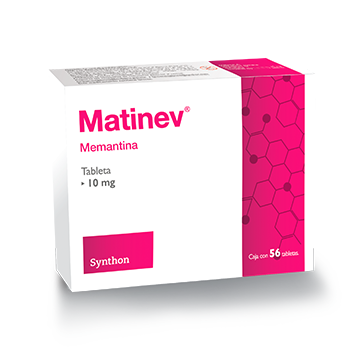
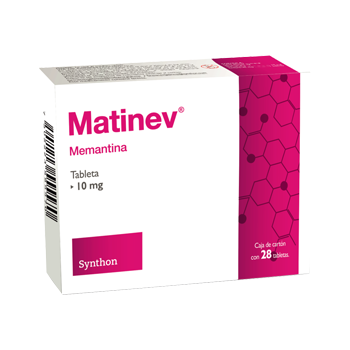
08

Changed region(s): [[0.1143, 0.1429, 0.9429, 0.9143]]

diff --git a/index.html b/index.html
@@ -27,7 +27,7 @@
             <nav class="nav">
                <ul>
                   <li><a href="./index.html" class="active"><i class="fas fa-home"></i>&nbsp;Inicio</a></li>
-                  <li><a href="./acceso/registro.html"><i class="fa-solid fa-right-to-bracket"></i>&nbsp;Ingresa | Registrate</a></li>
+                  <li><a href="./acceso/registro.html"><i class="fa-solid fa-right-to-bracket"></i>&nbsp;Ingresa</a></li>
                   <li><a href="./perfil-cliente/mi-espacio.html"><i class="fas fa-user"></i>&nbsp;Perfil</a></li>
                </ul>
             </nav>
@@ -58,70 +58,137 @@
 
 <div class="grid__container">
 
-  <div class="card" data-id="Apthon">
+  <div class="tarjetas__productos" data-id="Apthon">
     <img src="./img/productos/apthon.png" alt="apthon">
     <h1>Apthon®</h1>
-    <p>ACIDO ZOLEDRONICO 4mg/5mL | CAJA CON 1</p>
-    <h2> <span>Promoción</span> 3+1 | Paga tres, llévate 4
-      Precio por caja:
-      $2,231.00</h2>
+    <p>Cinacalcet 30 mg | 30 TABS</p>
+    <h3>
+      Precio por caja: $3,654.00</h3>
   </div>
 
-  <div class="card" data-id="Matinev">
+  <div class="tarjetas__productos" data-id="Matinev">
     <img src="./img/productos/matinev.png" alt="matinev">
-    <h1>Apthon®</h1>
-    <p>ACIDO ZOLEDRONICO 4mg/5mL | CAJA CON 1</p>
-    <h2> <span>Promoción</span> 3+1 | Paga tres, llévate 4
-      Precio por caja:
-      $2,231.00</h2>
+    <h1>Matinev®</h1>
+    <p>MEMANTINA 10 mg | 28 Tabletas</p>
+    <h2> <span>Promoción</span> 2+1 | Paga dos, llévate 3 </h2>
+      <h3>Precio por caja: $717.00</h3>
+      
   </div>
 
-  <div class="card" data-id="Rifosar">
-    <img src="./img/productos/rifosar.png" alt="rifosar">
+  <div class="tarjetas__productos" data-id="Matinev">
+    <img src="./img/productos/matinev-56tabs.png" alt="matinev">
+    <h1>Matinev®</h1>
+    <p>MEMANTINA 10 mg | 56 Tabletas</p>
+    <h2> <span>Promoción</span> 2+1 | Paga dos, llévate 3 </h2>
+      <h3>Precio por caja: $987.00</h3>
+      
+  </div>
+
+  <div class="tarjetas__productos" data-id="Matinev">
+    <img src="./img/productos/matinev-20g.png" alt="matinev">
+    <h1>Matinev®</h1>
+    <p>MEMANTINA 20 mg | 28 Tabletas</p>
+    <h2> <span>Promoción</span> 2+1 | Paga dos, llévate 3 </h2>
+      <h3>Precio por caja: $881.00</h3>
+      
+  </div>
+
+  <div class="tarjetas__productos" data-id="Balbit">
+    <img src="./img/productos/balbit.png" alt="Balbit">
+    <h1>Balbit®</h1>
+    <p>ACIDO ZOLEDRONICO 4mg/5mL | CAJA CON 1</p>
+    <h2> <span>Promoción</span> 3+1 | Paga tres, llévate 4 </h2>
+      <h3> Precio por caja:$2,231.00 </h3>
+  </div>
+
+  <div class="tarjetas__productos" data-id="Rifosar 800">
+    <img src="./img/productos/rifosar-800mg.png" alt="rifosar">
     <h1>Rifosar®</h1>
-    <p>ACIDO ZOLEDRONICO 4mg/5mL | CAJA CON 1</p>
-    <h2> <span>Promoción</span> 3+1 | Paga tres, llévate 4
-      Precio por caja:
-      $2,231.00</h2>
+    <p>SEVELAMERO 800 mg | 180 TABS</p>
+    <h3> Precio por caja: $3,874.00</h3>
   </div>
 
-  <div class="card" data-id="Ripizolnev">
+  <div class="tarjetas__productos" data-id="Rifosar">
+    <img src="./img/productos/rifosar-pos.png" alt="Ripizolnev">
+    <h1>RIFOSAR-POS®</h1>
+    <p>SEVELAMERO 2.4 G | 60 SOBRES</p>
+    <h2> <span>Promoción</span> 4+1 | Paga 4, llévate 5 </h2>
+     <h3>$3,990.00</h3>
+  </div>
+
+  <div class="tarjetas__productos" data-id="Ripizolnev">
     <img src="./img/productos/ripizolnev.png" alt="Ripizolnev">
     <h1>Ripizolnev®</h1>
-    <p>ACIDO ZOLEDRONICO 4mg/5mL | CAJA CON 1</p>
-    <h2> <span>Promoción</span> 3+1 | Paga tres, llévate 4
-      Precio por caja:
-      $2,231.00</h2>
+    <p>ARIPIPRAZOL 10 mg | 10 Tabletas</p>
+    <h2> <span>Promoción</span> 2+1 | Paga 2, llévate 3 </h2>
+     <h3>Precio por caja: $520.00</h3>
   </div>
 
-  <div class="card" data-id="LEZOMIV">
-      <img src="https://www.artilugiogroup.com.mx/Progalenica/wp-content/uploads/2023/06/APTHON_CINACALCET-30mg.png" alt="JavaScript">
+  <div class="tarjetas__productos" data-id="Ripizolnev">
+    <img src="./img/productos/ripizolnev-15g.png" alt="Ripizolnev">
+    <h1>Ripizolnev®</h1>
+    <p>ARIPIPRAZOL 15 mg | 20 Tabletas</p>
+    <h2> <span>Promoción</span> 2+1 | Paga 2, llévate 3 </h2>
+     <h3>Precio por caja: $1,134.00</h3>
+  </div>
+
+  <div class="tarjetas__productos" data-id="LEZOMIV">
+      <img src="./img/productos/lezomiv.png" alt="JavaScript">
       <h1>LEZOMIV®</h1>
       <p>ACIDO ZOLEDRONICO 4mg/5mL | CAJA CON 1</p>
-      <h2> <span>Promoción</span> 3+1 | Paga tres, llévate 4
-        Precio por caja:
-        $2,231.00</h2>
-  </div>
-  <div class="card" data-id="RIFOSAR">
-      <img src="https://www.artilugiogroup.com.mx/Progalenica/wp-content/uploads/2021/02/NODUTAX-EXEMESTANO-25-mgP.png" alt="HTML">
-      <h1>RIFOSAR®</h1>
-      <p>SEVELAMERO 800 mg | 180 TABS</p>
-      <h2>
-        Precio por caja: $3,874.00</h2>
-  </div>
-  <div class="card" data-id="trodis">
-      <img src="https://images.unsplash.com/photo-1491438590914-bc09fcaaf77a?q=80&w=1740&auto=format&fit=crop&ixlib=rb-4.1.0&ixid=M3wxMjA3fDB8MHxwaG90by1wYWdlfHx8fGVufDB8fHx8fA%3D%3D" alt="CSS">
-      <p>TRODIS®</p>
-  </div>
-  <div class="card" data-id="magemiv">
-      <img src="https://images.unsplash.com/photo-1491438590914-bc09fcaaf77a?q=80&w=1740&auto=format&fit=crop&ixlib=rb-4.1.0&ixid=M3wxMjA3fDB8MHxwaG90by1wYWdlfHx8fGVufDB8fHx8fA%3D%3D" alt="Firebase">
-      <p>MAGEMIV®</p>
+      <h2> <span>Promoción</span> 3+1 | Paga 3, llévate 4 </h2>
+     <h3>Precio por caja: $2,231.00</h3>
   </div>
 
-  <div class="card" data-id="carenev">
-    <img src="https://images.unsplash.com/photo-1491438590914-bc09fcaaf77a?q=80&w=1740&auto=format&fit=crop&ixlib=rb-4.1.0&ixid=M3wxMjA3fDB8MHxwaG90by1wYWdlfHx8fGVufDB8fHx8fA%3D%3D" alt="Firebase">
-    <p>Carenev</p>
+  <div class="tarjetas__productos" data-id="BILUMIV">
+      <img src="./img/productos/bilumiv.png" alt="BILUMIV">
+      <h1>BILUMIV®</h1>
+      <p>BICALUTAMIDA 50 mg | 28 TABS</p>
+      <h2> <span>Promoción</span> 3+1 | Paga tres, llévate 4 </h2>
+      <h3>Precio por caja: $2,362.00</h3>
   </div>
+
+
+  <div class="tarjetas__productos" data-id="FEXILEV">
+      <img src="./img/productos/fexilev.png" alt="FEXILEV">
+      <h1>FEXILEV®</h1>
+      <p>GEFITINIB 250 mg | 30 TABS</p>
+      <h2> <span>Promoción</span> 1+1 | Paga 1, llévate 2 </h2>
+      <h3>Precio por caja: $38,808.00</h3>
+  </div>
+
+  <div class="tarjetas__productos" data-id="TRODIS">
+    <img src="./img/productos/trodis.png" alt="TRODIS">
+    <h1>TRODIS®</h1>
+    <p> LETROZOL 2.5 mg | 30 TABS</p>
+    <h2> <span>Promoción</span> 1+1 | Paga 1, llévate 2 </h2>
+    <h3>Precio por caja: $2,410.00</h3>
+  </div>
+
+
+  <div class="tarjetas__productos" data-id="MAGEMIV">
+    <img src="./img/productos/magemiv.png" alt="MAGEMIV">
+    <h1>MAGEMIV®</h1>
+    <p> ANASTROZOL 1 mg | 28 TABS</p>
+    <h2> <span>Promoción</span> 3+1 | Paga 3, llévate 4 </h2>
+    <h3>Precio por caja: $2,481.00</h3>
+  </div>
+
+  <div class="tarjetas__productos" data-id="Carenev">
+    <img src="./img/productos/magemiv.png" alt="Carenev">
+    <h1>Carenev</h1>
+    <p>Sunitinib 12.50 mg | 28 TABS</p>
+    <h3>Precio por caja: $12,647.00</h3>
+  </div>
+
+  <div class="tarjetas__productos" data-id="NODUTAX">
+    <img src="./img/productos/nodutax.png" alt="NODUTAX">
+    <h1>NODUTAX®</h1>
+    <p>EXEMESTANO 25 mg | 30 TABS</p>
+    <h2> <span>Promoción</span> 3+1 | Paga 3, llévate 4 </h2>
+    <h3>Precio por caja: $2,999.00</h3>
+  </div>
+
 
 
 </div>
@@ -176,7 +243,7 @@
     </div>
   </section>
   <script src='https://cdnjs.cloudflare.com/ajax/libs/jquery/3.6.0/jquery.min.js'></script>
-  <script src="js/buscador.js"></script>
+  <script src="./js/buscador.js"></script>
 <script src="js/main.js"></script>
 
 </body>

diff --git a/css/style.css b/css/style.css
@@ -259,7 +259,7 @@ a{
   justify-content: center;
 }
  
- .card { 
+ .tarjetas__productos { 
   background-color: var(--color-principal);
   /*background-color: #033f5f;*/
   max-width: 350px;
@@ -274,12 +274,12 @@ a{
   cursor: pointer;  
 }
 
-.card:hover { 
+.tarjetas__productos:hover { 
   transform: scale(1.1);
   transition: ease-in .3s;
 }
 
-.card img {
+.tarjetas__productos img {
   max-width: 350px;
   width: 100%;
   height: 220px;
@@ -289,12 +289,12 @@ a{
 }
 
 /*
-.card img:hover {
+.tarjetas__productos img:hover {
   transform: scale(1.07);
   transition: ease-in .3s;
 }*/
 
-.card h1{
+.tarjetas__productos h1{
   color: var(--color-letras-blanco);
   font-size: 1.2rem;
   padding: 1rem;
@@ -303,7 +303,7 @@ a{
   margin: 0 auto;
 }
 
-.card h2{
+.tarjetas__productos h2{
   color: var(--color-letras-blanco);
   font-size: 1rem;
   padding: 0rem;
@@ -311,14 +311,23 @@ a{
 
 }
 
-.card p{
+.tarjetas__productos h3{
+  color: var(--color-letras-blanco);
+  font-size: 1.2rem;
+  padding: 1rem;
+  text-align: center;
+
+}
+
+
+.tarjetas__productos p{
   color: var(--color-letras-subtitulo);
   font-size: 1rem;
   padding: 1.5rem;
   text-align: center;
 }
 
-.card span{
+.tarjetas__productos span{
   color: var(--color-secundario);
 }
 

diff --git a/js/buscador.js b/js/buscador.js
@@ -1,12 +1,12 @@
 document.getElementById('search').addEventListener('input', function() {
     let filter = this.value.toLowerCase();
-    let cards = document.querySelectorAll('.card');
+    let tarjetas__productos = document.querySelectorAll('.tarjetas__productos');
 
-    cards.forEach(card => {
-        if (card.dataset.id.includes(filter) || card.innerText.toLowerCase().includes(filter)) {
-            card.style.display = "block";
+    tarjetas__productos.forEach(tarjetas__productos => {
+        if (tarjetas__productos.dataset.id.includes(filter) || tarjetas__productos.innerText.toLowerCase().includes(filter)) {
+            tarjetas__productos.style.display = "block";
         } else {
-            card.style.display = "none";
+            tarjetas__productos.style.display = "none";
         }
     });
 });

diff --git a/acceso/registro.html b/acceso/registro.html
@@ -75,7 +75,7 @@
         <div class="pass-link"><a href="#">Olvidaste la contraseña?</a></div>
         <div class="field btn">
           <div class="btn-layer"></div>
-          <input type="submit" value="Login">
+          <input type="submit" value="iniciar">
         </div>
         <div class="signup-link">No eres miembro? <a href="">Registrate Ahora</a></div>
       </form>
@@ -91,7 +91,7 @@
         </div>
         <div class="field btn">
           <div class="btn-layer"></div>
-          <input type="submit" value="Signup">
+          <input type="submit" value="registrate">
         </div>
       </form>
     </div>
